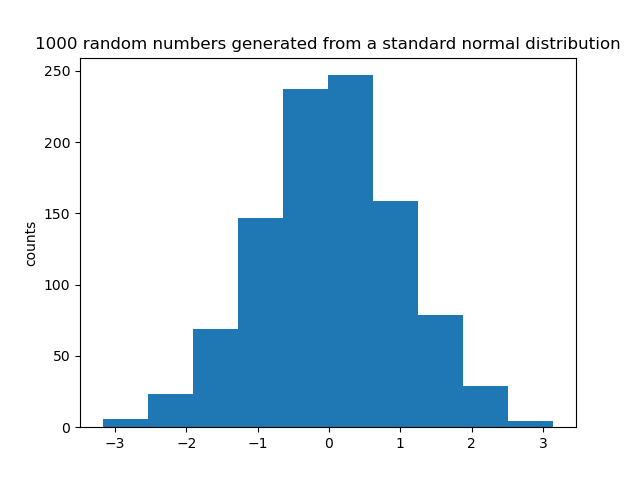
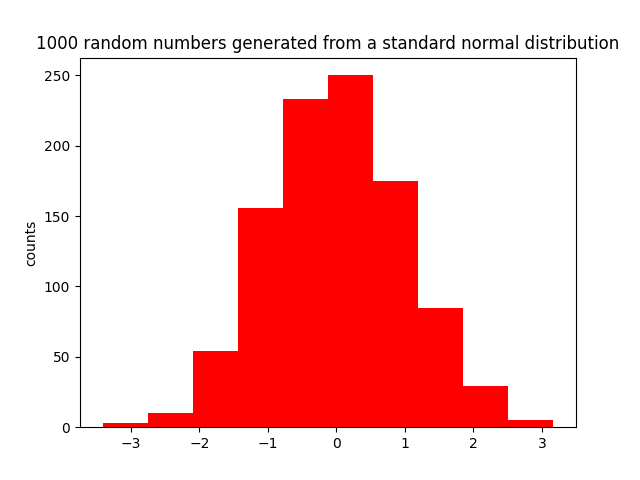
Changed histogram color to red.

diff --git a/random_normal.py b/random_normal.py
@@ -6,7 +6,7 @@ rng = np.random.default_rng()
 vals = rng.standard_normal(1000)
 
 #And make a histogram
-plt.hist(vals)
+plt.hist(vals, color='red')
 plt.ylabel('counts')
 plt.title('1000 random numbers generated from a standard normal distribution')
 plt.savefig('standard normal historgram.png')
